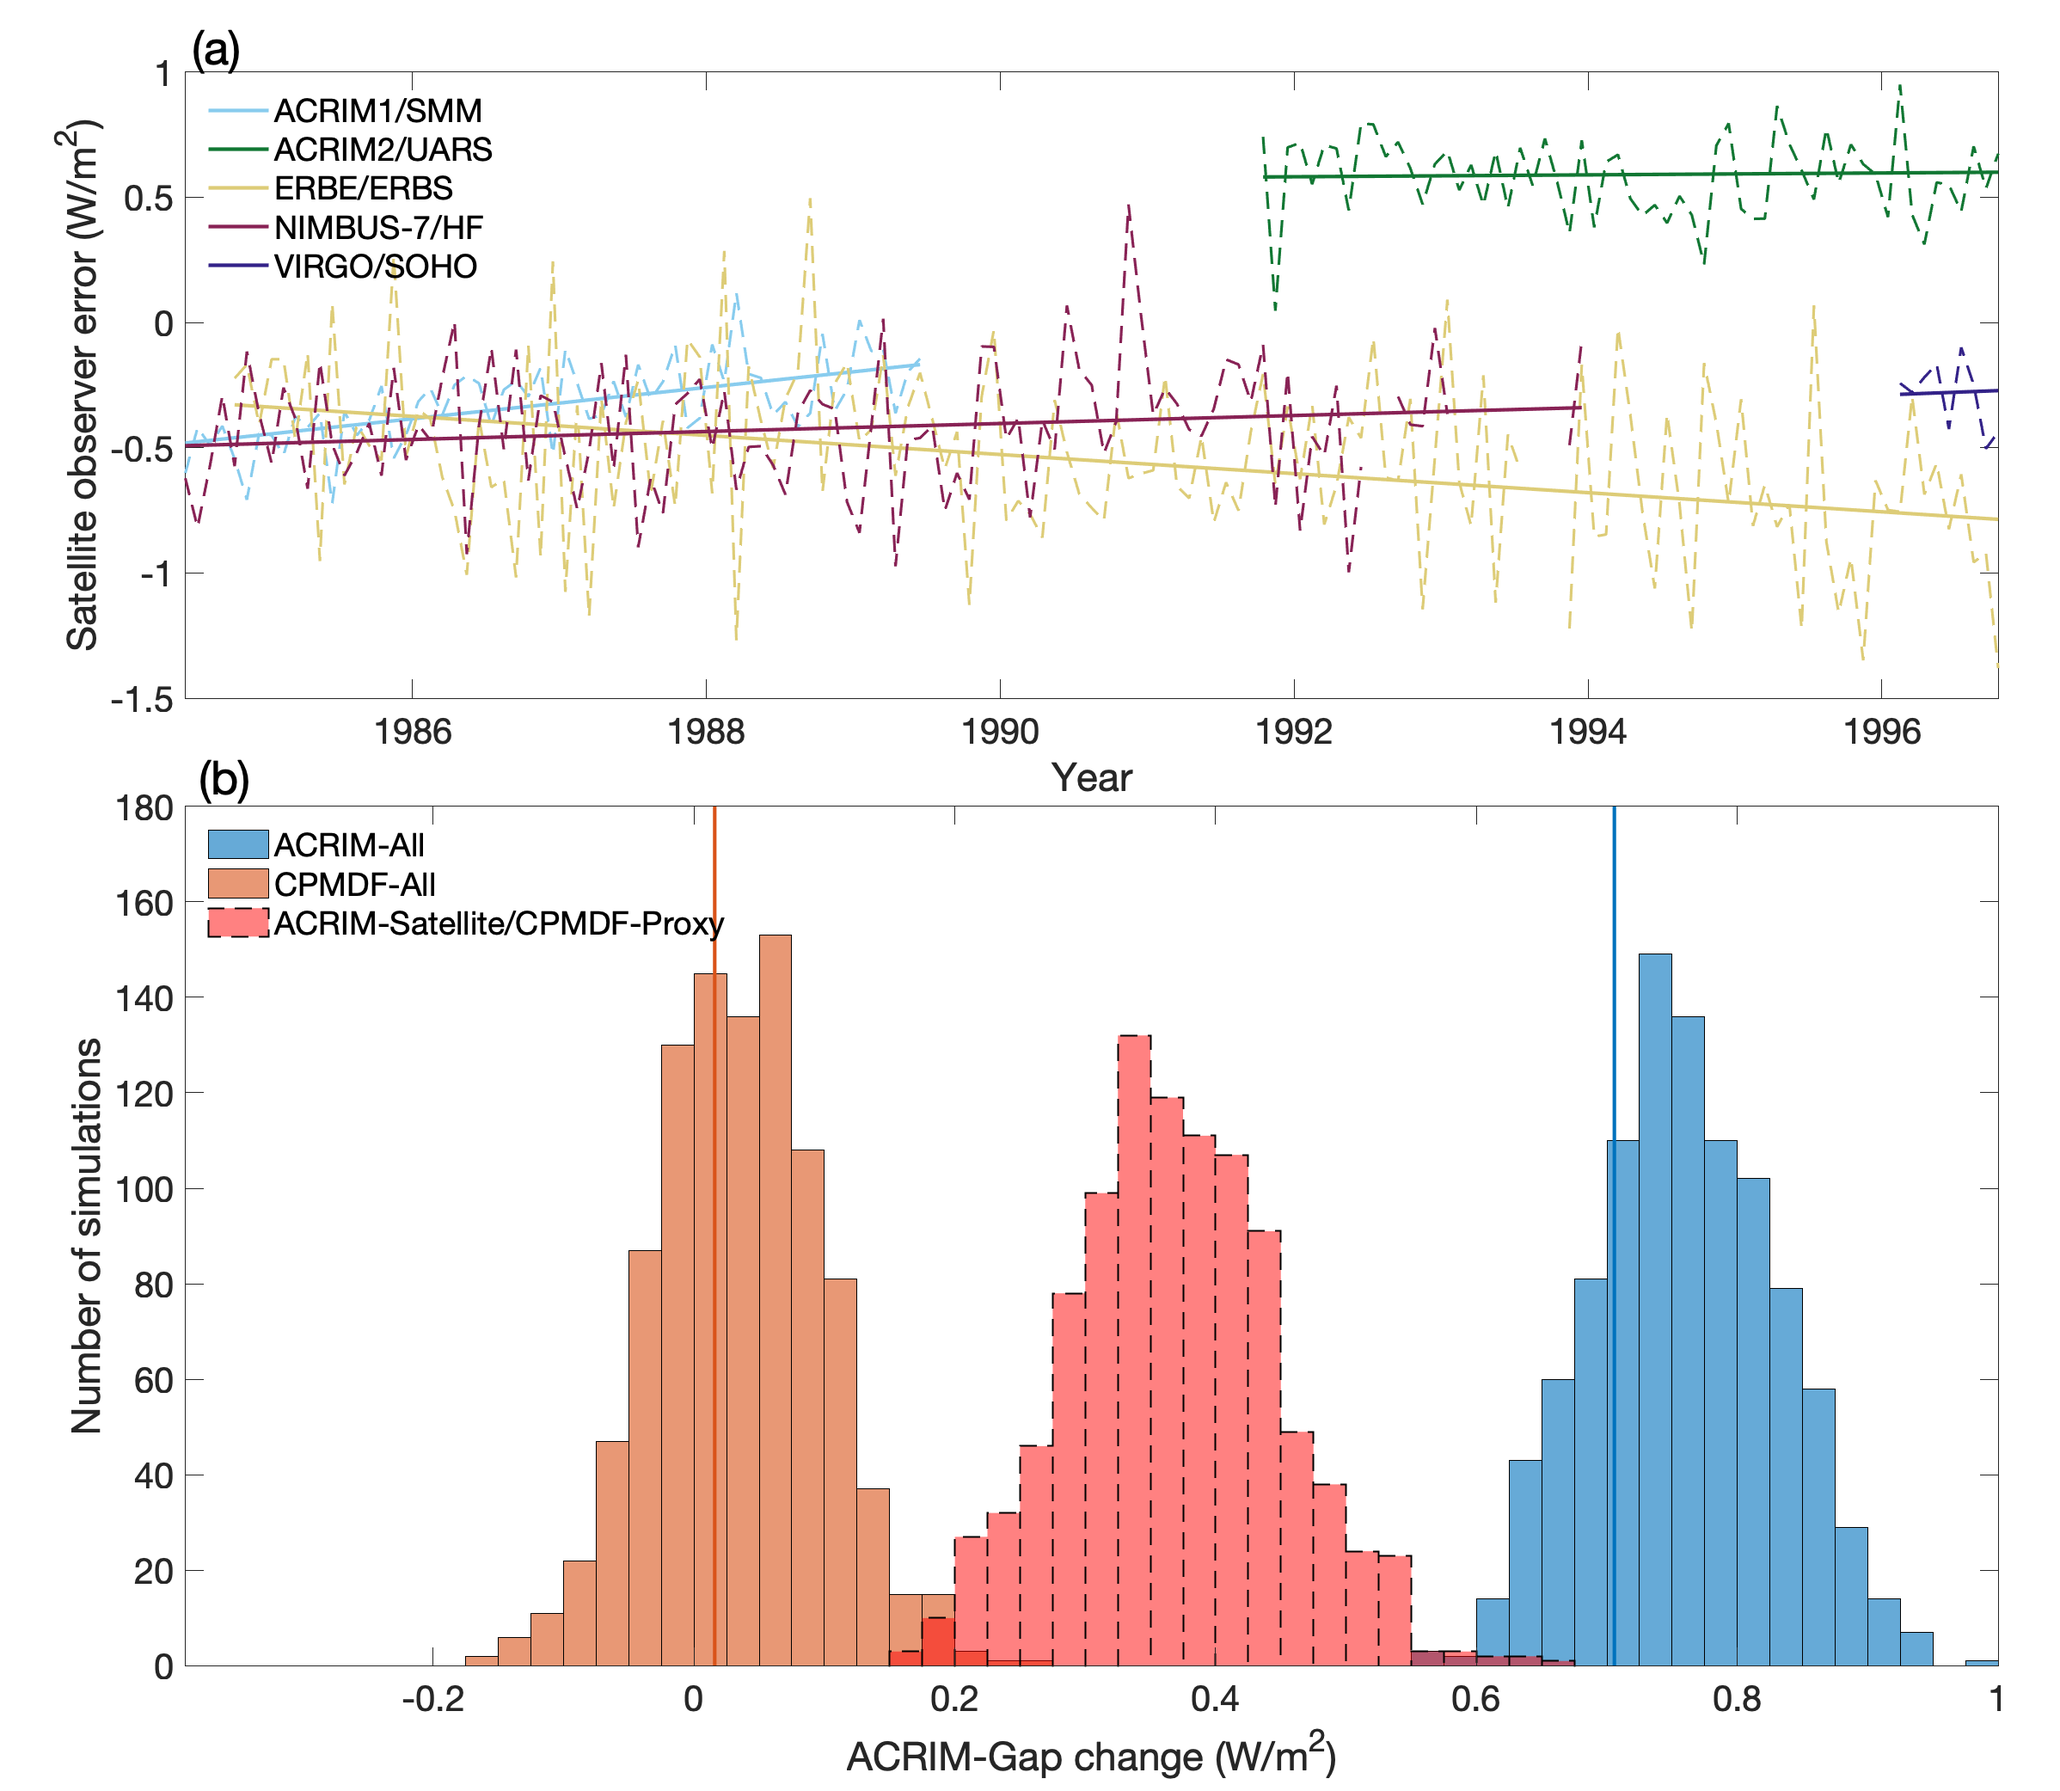
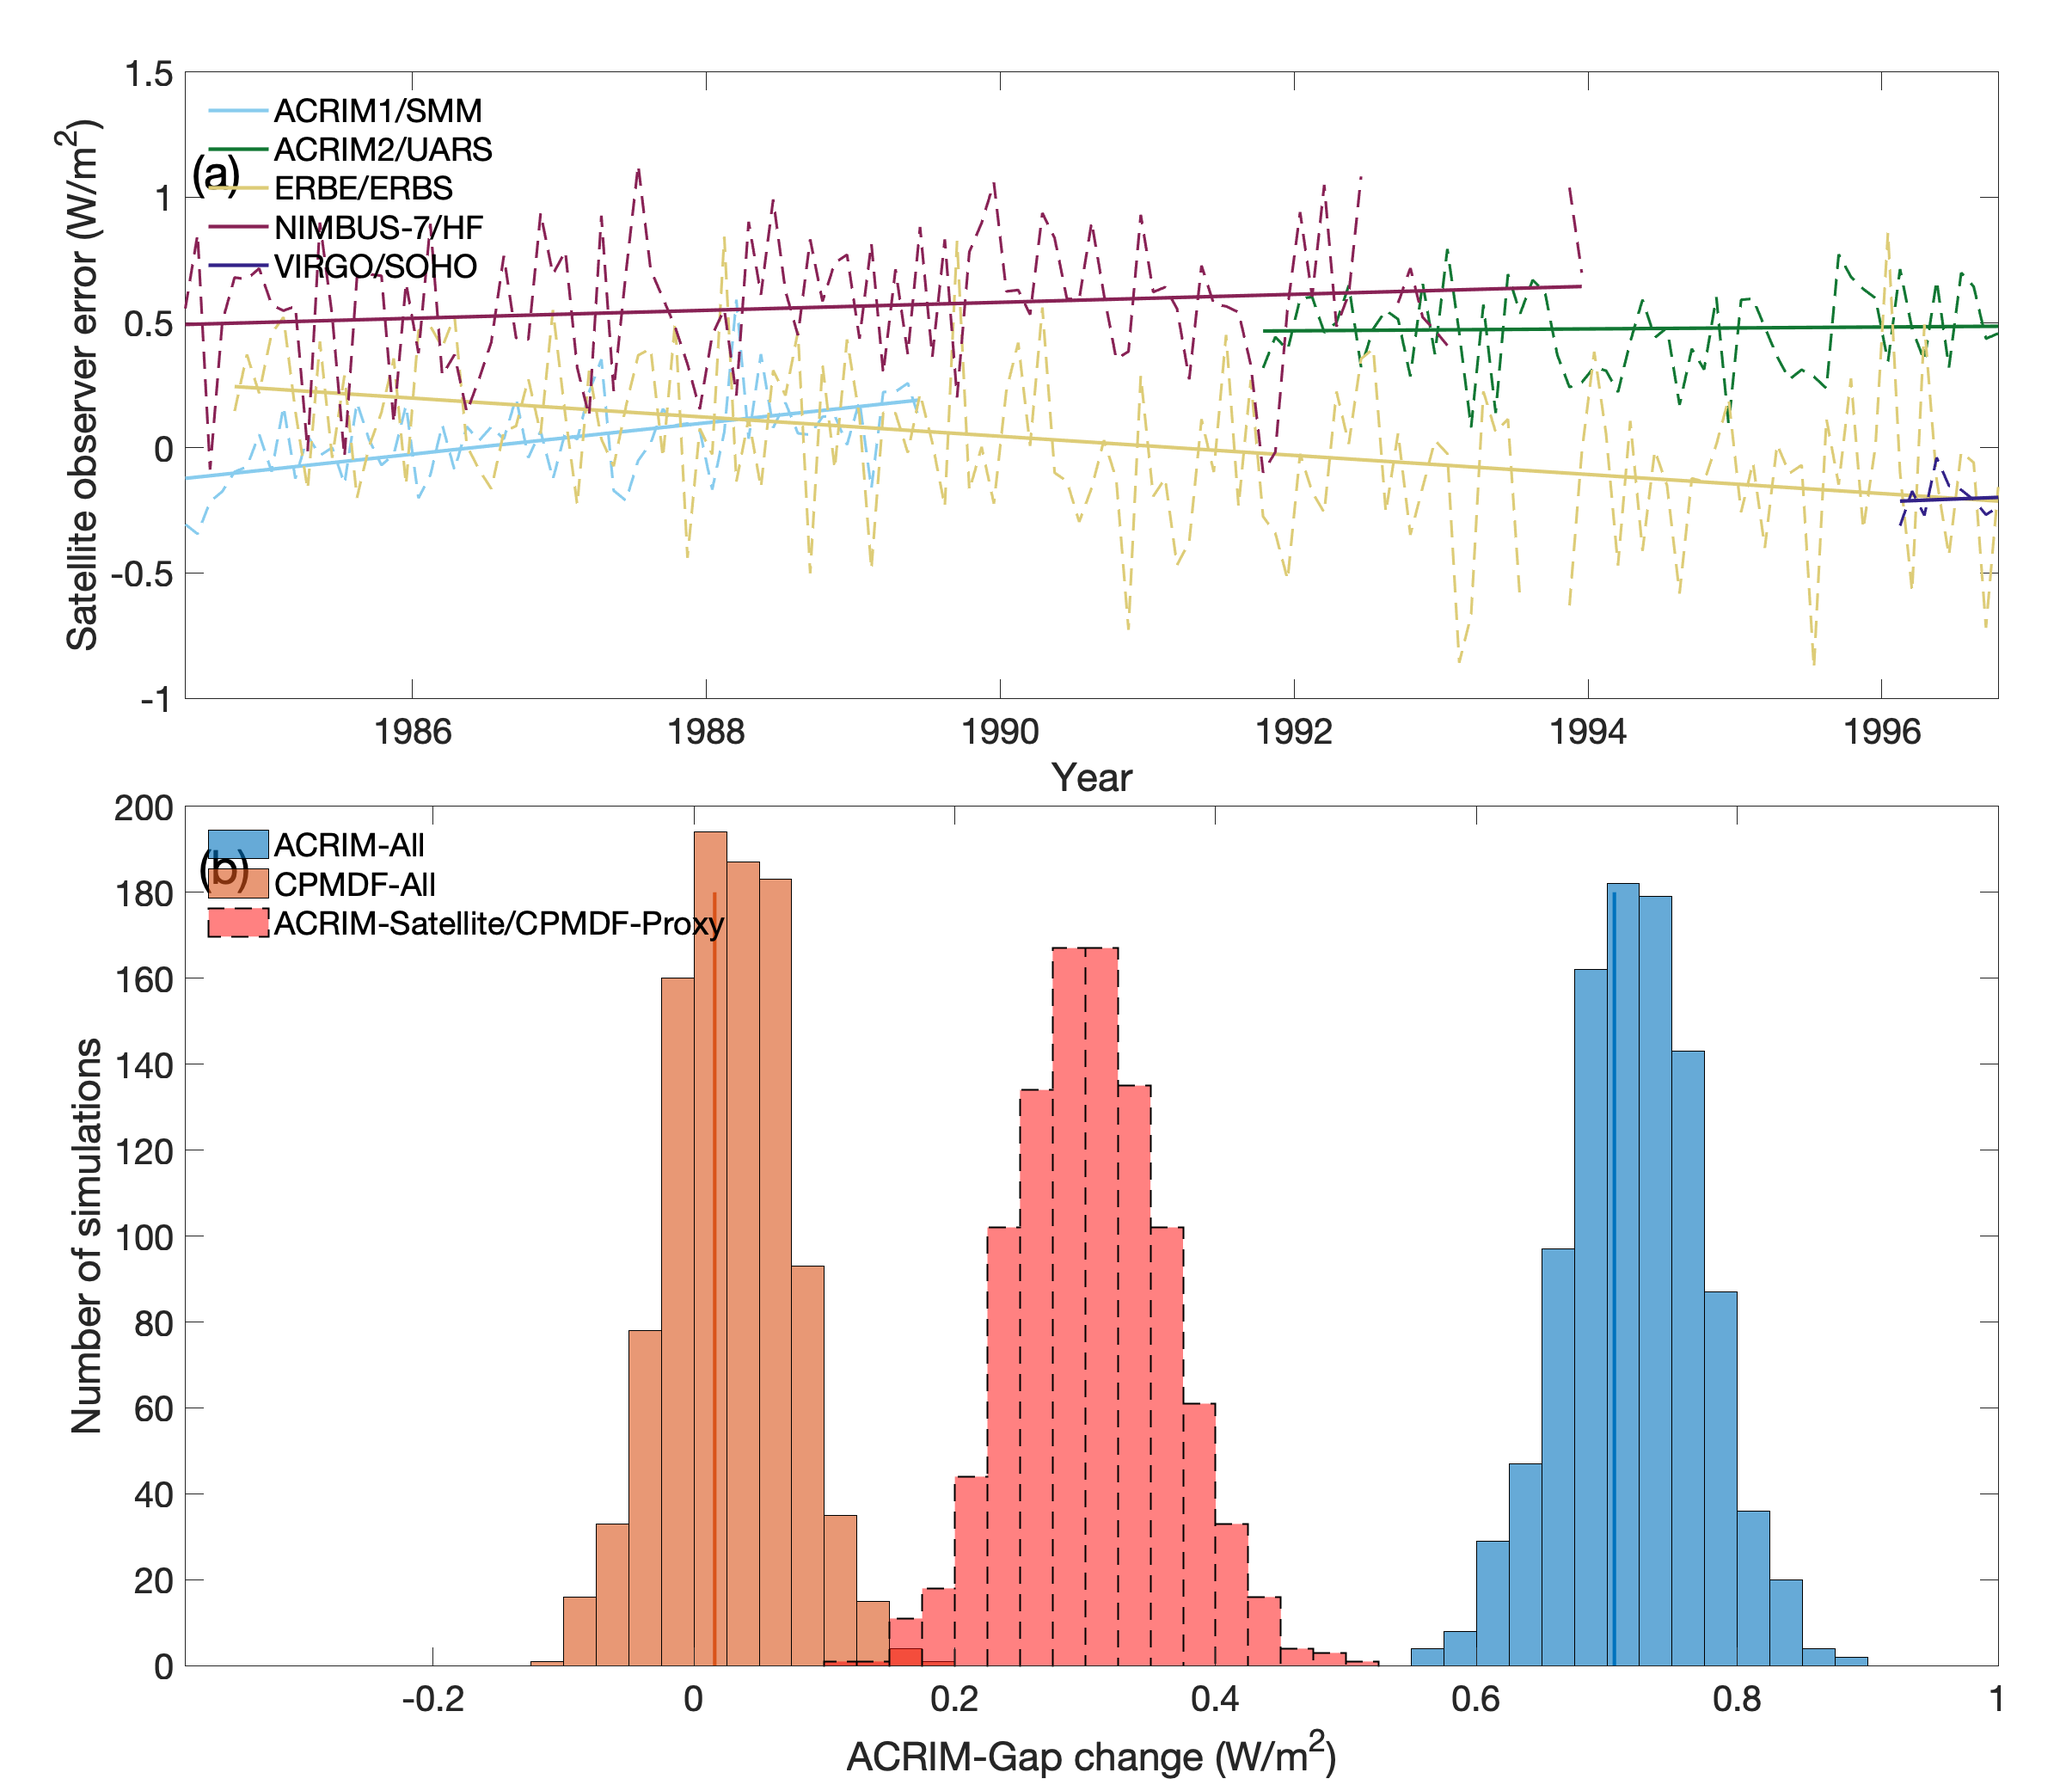
Set up cluster experiment for synthetic test with revised priors

diff --git a/acrim_plots_23_01_13.m b/acrim_plots_23_01_13.m
@@ -693,7 +693,7 @@ if threeScenario
     
     %Plot a panel with the ACRIM Gap outputs
     clear h
-    load threetestcluster_rng3_23_02_18.mat
+    load threetestcluster_rng3_23_02_20.mat
     PMODGAP=0.0159; %FROM THE gapChange calculation
     ACRIMGAP=0.7057; %From the gapChange calculation
     %Plot a panel with the correct ACRIM-Gap for ACRIM, what the model finds
@@ -968,7 +968,7 @@ if PMODCorrections
     
 end
 if threeScenarioAnalysis
-    load threetestcluster_rng3_23_02_18.mat
+    load threetestcluster_rng3_23_02_20.mat
     PMODGAP=0.0159; %FROM THE gapChange calculation
     ACRIMGAP=0.7057; %From the gapChange calculation
     %Plot a panel with the correct ACRIM-Gap for ACRIM, what the model finds
@@ -993,6 +993,13 @@ if threeScenarioAnalysis
         APMOD(:,:,ii)=threeTest(ii).ACRIM.Aout;
         AACRIM(:,:,ii)=threeTest(ii).PMOD.Aout;
     end
+    %Get the residuals of TSI
+    for ii=1:size(threeTest,2)
+        xACRIM(:,ii)=threeTest(ii).ACRIM.xm;
+        xPMOD(:,ii)=threeTest(ii).PMOD.xm;
+    end
+    tsi = twotsiseries;
+    
     %Calculate the statistical power of BTSI in inferring ARIM Gap
     PMOD_sig=quantile(PMOD.gap,.975);
     sig_ct=sum(AP.gap>PMOD_sig);

diff --git a/modeleval/alt_runs/runalts.m b/modeleval/alt_runs/runalts.m
@@ -4,10 +4,10 @@
 clearvars
 lag1=0;
 lag3=0;
-synthGeneric=0;
+synthGeneric=1;
 synthAltH=0;
 synthNoRho=0;
-largeSynth=1;
+largeSynth=0;
 noERBE=0;
 altACRIM1=0;
 
@@ -40,8 +40,13 @@ if lag3
     runchain_23_01_13(valM,oM,colLabels,opts);
 end
 if synthGeneric
+    opts.burnin = 500; %Number of burn-in reps assumed for chain length analysis
+    opts.reps=1500; %Total length of chain, including burn-in
+    opts.dispProgress=false;
+    opts.HsigScale=1; %Change the variance parameters of Hsig by scaling factor
+    opts.NRLTSIprior=true;
     [AP,ACRIM,PMOD,setInfo]=makesynthdatasets(1,[],[]);
-    runthreescenariotest_23_02_15(ACRIM,PMOD,AP,setInfo,[],'threetestcluster_generic_23_02_15b.mat');
+    runthreescenariotest_23_02_15(ACRIM,PMOD,AP,setInfo,[],'threetestcluster_generic_23_02_20.mat',opts);
 end
 if synthAltH
     [AP,ACRIM,PMOD,setInfo]=makesynthdatasets(2,[],'3scenario_rng2__23_02_15.mat');
